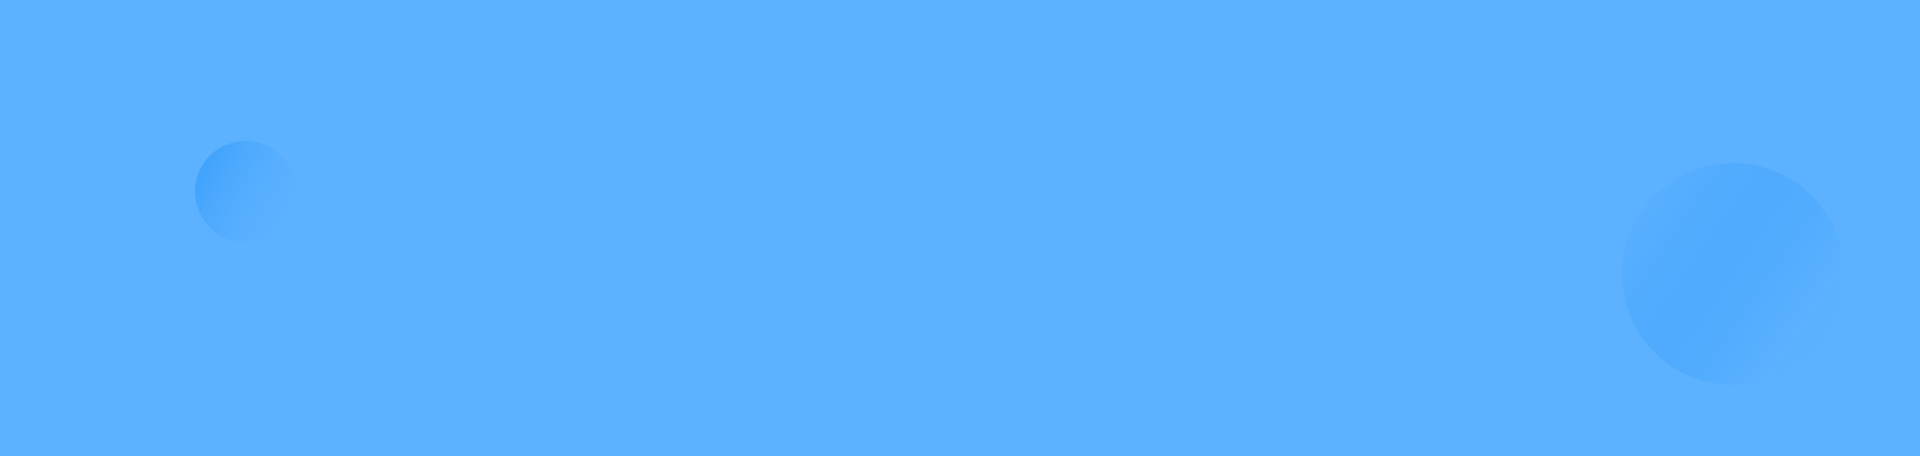
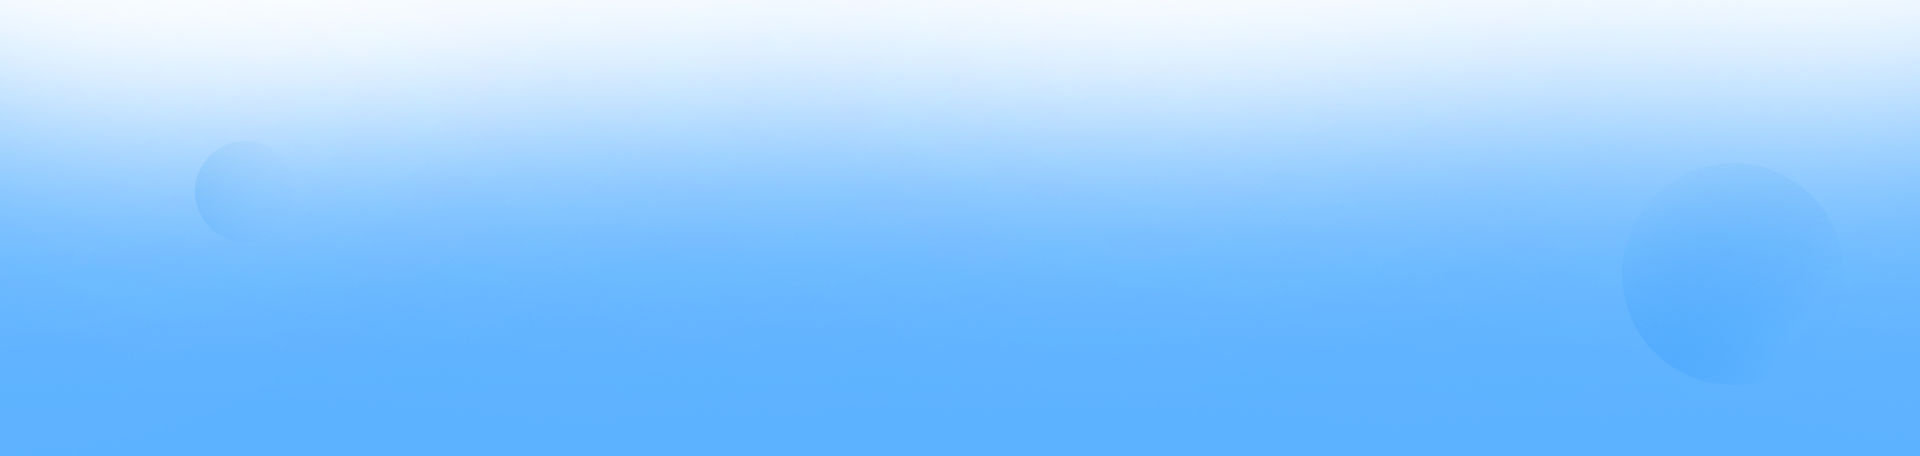
jjjkk

diff --git a/login.html b/login.html
@@ -1,0 +1,296 @@
+<!doctype html>
+<html class="no-js" lang="zxx">
+
+<head>
+    <meta charset="utf-8">
+    <meta http-equiv="x-ua-compatible" content="ie=edge">
+    <title>Genius Brasil</title>
+    <meta name="description" content="">
+    <meta name="viewport" content="width=device-width, initial-scale=1">
+	<link rel="sortcut icon" href="favicon.ico" type="image/x-icon" />
+    <link rel="sortcut icon" href="img/flavicon.png" type="image/png" />
+
+    <!-- <link rel="manifest" href="site.webmanifest"> -->
+    <!-- Place favicon.ico in the root directory -->
+
+    <!-- CSS here -->
+    <link rel="stylesheet" href="css/bootstrap.min.css">
+    <link rel="stylesheet" href="css/owl.carousel.min.css">
+    <link rel="stylesheet" href="css/magnific-popup.css">
+    <link rel="stylesheet" href="css/font-awesome.min.css">
+    <link rel="stylesheet" href="css/themify-icons.css">
+    <link rel="stylesheet" href="css/nice-select.css">
+    <link rel="stylesheet" href="css/flaticon.css">
+    <link rel="stylesheet" href="css/gijgo.css">
+    <link rel="stylesheet" href="css/animate.min.css">
+    <link rel="stylesheet" href="css/slick.css">
+    <link rel="stylesheet" href="css/slicknav.css">
+    <link rel="stylesheet" href="css/style.css">
+    <link rel="stylesheet" href="css/lightbox.min.css">
+    <link rel="stylesheet" href="https://cdnjs.cloudflare.com/ajax/libs/normalize/3.0.2/normalize.css"/>
+    <link rel="stylesheet" href="//maxcdn.bootstrapcdn.com/font-awesome/4.3.0/css/font-awesome.min.css">
+    <link rel="stylesheet" href="css/styles.css">
+    <link rel='stylesheet' href='https://cdnjs.cloudflare.com/ajax/libs/twitter-bootstrap/4.1.1/css/bootstrap.css'>
+    <link rel="stylesheet" href="css/styletab.css">
+
+    <!-- <link rel="stylesheet" href="css/responsive.css"> -->
+</head>
+
+<body>
+    <script type='text/javascript' data-cfasync='false'>window.purechatApi = { l: [], t: [], on: function () { this.l.push(arguments); } }; (function () { var done = false; var script = document.createElement('script'); script.async = true; script.type = 'text/javascript'; script.src = 'https://app.purechat.com/VisitorWidget/WidgetScript'; document.getElementsByTagName('HEAD').item(0).appendChild(script); script.onreadystatechange = script.onload = function (e) { if (!done && (!this.readyState || this.readyState == 'loaded' || this.readyState == 'complete')) { var w = new PCWidget({c: '2d88989f-d4d8-4dd8-b32c-89577d56036c', f: true }); done = true; } }; })();</script>
+
+    <!--[if lte IE 9]>
+            <p class="browserupgrade">You are using an <strong>outdated</strong> browser. Please <a href="https://browsehappy.com/">upgrade your browser</a> to improve your experience and security.</p>
+        <![endif]-->
+
+    <!-- header-start -->
+    <header>
+        <div class="header-area ">
+            <div id="sticky-header" class="main-header-area">
+                <div class="container-fluid">
+                    <div class="row align-items-center">
+                        <div class="col-xl-3 col-lg-2">
+                            <div class="logo">
+                                <a href="index.html">
+                                    <img src="img/logo.png" alt="">
+                                </a>
+                            </div>
+                        </div>
+                        <div class="col-xl-6 col-lg-7">
+                            <div class="main-menu  d-none d-lg-block">
+                                <nav>
+                                    <ul id="navigation">
+                                        <li><a class="active" href="index.html">Início</a></li>
+                                        <li><a href="Pricing.html">Genius Web</a></li> 
+                                        <li><a href="features.html">Genius Nuvens</a></li>
+                                        <li><a href="ecommerce.html">E-commerce Genius</a></li>
+                                        <li><a href="#">A Empresa <i class="ti-angle-down"></i></a>
+                                            <ul class="submenu">
+                                                <li><a href="blog.html">Genius 22 anos</a></li>
+                                                <li><a href="employees.html">Nossa Equipe</a></li>
+                                                <li><a href="contact.html">Contato</a></li>
+                                            </ul>
+                                        </li>
+                                    </ul>
+                                </nav>
+                            </div>
+                        </div>   
+                        <div class="col-xl-3 col-lg-3 d-none d-lg-block">
+                            <div class="Appointment">
+                                <div class="book_btn d-none d-lg-block">
+                                    <a  href="contact.html">Entre em contato</a>
+                                </div>
+                            </div>
+                        </div>  
+                        <div class="col-12">
+                            <div class="mobile_menu d-block d-lg-none"></div>
+                        </div>
+                    </div>
+                </div>
+            </div>
+        </div>
+    </header>
+    <!-- header-end -->
+
+    <!-- bradcam_area  -->
+    <div class="bradcam_area bradcam_bg_4">
+        <div class="container">
+            <div class="row">
+                <div class="col-xl-12">
+                    <div class="bradcam_text">
+                        <h3>Serviços</h3>
+                    </div>
+                <br>
+                    <div class="slider_text">
+                    <p class="wow fadeInLeft" data-wow-duration="1s" data-wow-delay=".1s"><i class="fa fa-key"></i> Aqui você faz a oficialização de sua licença de uso; <br>
+                    <i class="fa fa-phone"></i> Solicite um contato com as áreas de atendimento;            
+                    <i class= "fa fa-barcode"></i> Solicite a segunda via do passaporte<br>
+                    <i class="fa fa-window-close-o"></i> Cancelamento de series.<br>
+                    <i class="fa fa-window-close-o"></i> Cancelamento de series.</p>
+                    </div>
+     
+                </div>
+            </div>
+        </div>
+    </div>
+
+    <!-- Tab panes -->
+        <div class="login-page">
+            <div class="form">
+                <p>Login Usuário</p>
+              <form class="register-form">
+                <input type="text" placeholder="CPF"/>
+                <input type="password" placeholder="Passaporte"/>
+                <button>Acessar Serviços</button>
+                <p class="message"> <a href="#">Acesse com CNPJ</a></p>
+              </form>
+              <form class="login-form">
+                <input type="text" placeholder="CNPJ"/>
+                <input type="password" placeholder="Passaporte"/>
+                <button>Acessar Serviços</button>
+                <p class="message">Sem CNPJ? <a href="#">Acesse com CPF</a></p>
+              </form>
+            </div>
+          </div>
+    <div class="apply_loan overlay">
+        <div class="container">
+            <div class="row align-items-center">
+                <div class="col-lg-8 col-md-7">
+                    <div class="loan_text wow fadeInLeft" data-wow-duration="1s" data-wow-delay=".3s">
+                        <h3>O melhor para sua empresa. </h3>
+                    </div>
+                </div>
+                <div class="col-lg-4 col-md-5">
+                    <div class="loan_btn wow fadeInUp" data-wow-duration="1.2s" data-wow-delay=".4s">
+                        <a class="boxed-btn3" href="">Entre em Contato</a>
+                    </div>
+                </div>
+            </div>
+        </div>
+    </div>
+    <!-- productivity_area  -->
+
+    <!-- footer start -->
+    <footer class="footer">
+        <div class="footer_top">
+            <div class="container">
+                <div class="row">
+                    <div class="col-xl-4 col-md-6 col-lg-3">
+                        <div class="footer_widget wow fadeInUp" data-wow-duration="1s" data-wow-delay=".3s">
+                            <div class="footer_logo">
+                                <a href="#">
+                                    <img src="img/logooficial.png" alt="">
+                                </a>
+                            </div>
+                            <p>
+                                comercial@geniusnt.com<br>
+                                +55 (71) 98102-3012<br>
+                                Salvador, Bahia.<br>
+                                Envie-nos suas duvidas a qualquer momento!
+                            </p>
+                            <div class="socail_links">
+                                <ul>
+                                    <li>
+                                        <a href="#">
+                                            <i class="ti-facebook"></i>
+                                        </a>
+                                    </li>
+                                    <li>
+                                        <a href="#">
+                                            <i class="fa fa-whatsapp"></i>
+                                        </a>
+                                    </li>
+                                    <li>
+                                        <a href="#">
+                                            <i class="fa fa-twitter"></i>
+                                        </a>
+                                    </li>
+                                    <li>
+                                        <a href="https://www.instagram.com/geniussistemasbr/">
+                                            <i class="fa fa-instagram"></i>
+                                        </a>
+                                    </li>
+                                    <li>
+                                        <a href="#">
+                                            <i class="fa fa-skype"></i>
+                                        </a>
+                                    </li>
+                                </ul>
+                            </div>
+    
+                        </div>
+                    </div>
+                    <div class="col-xl-2 col-md-6 col-lg-3">
+                        <div class="footer_widget wow fadeInUp" data-wow-duration="1.1s" data-wow-delay=".4s">
+                            <h3 class="footer_title">
+                                Serviços 
+                            </h3>
+                            <ul>
+                                <li><a href="#">Suporte </a></li>
+                                <li><a href="#">Planos</a></li>
+                                <li><a href="contact.html">Contate a Genius</a></li>
+                                <li><a href="#">Parcerias </a></li>
+                            </ul>
+    
+                        </div>
+                    </div>
+                    <div class="col-xl-2 col-md-6 col-lg-2">
+                        <div class="footer_widget wow fadeInUp" data-wow-duration="1.2s" data-wow-delay=".5s">
+                            <h3 class="footer_title">
+                                Links Úteis 
+                            </h3>
+                            <ul>
+                                <li><a href="blog.html">Empresa</a></li>
+                                <li><a href="#">Outros Produtos</a></li>
+                                <li><a href="#">Blog</a></li>
+                                <li><a href="#">Outros</a></li>
+                            </ul>
+                        </div>
+                    </div>
+                    <div class="col-xl-4 col-md-6 col-lg-4">
+                        <div class="footer_widget wow fadeInUp" data-wow-duration="1.3s" data-wow-delay=".6s">
+                            <h3 class="footer_title">
+                                Saiba mais!
+                            </h3>
+                            <form action="#" class="newsletter_form">
+                                <input type="text" placeholder="Digite seu E-mail">
+                                <button type="submit">Enviar</button>
+                            </form>
+                            <p class="newsletter_text">Enviaremos mais informações sobre nossos produtos, respeitando acima de tudo a sua privacidade :)</p>
+                        </div>
+                    </div>
+                </div>
+            </div>
+        </div>
+     <div class="copy-right_text">
+                    <div class="container">
+                        <div class="footer_border"></div>
+                        <div class="row">
+                            <div class="col-xl-12">
+                                <p class="copy_right text-center">
+                                    Copyright &copy;
+                                    <script>document.write(new Date().getFullYear());</script> todos os direitos reservados | Este site foi feito <i class="fa fa-registered" aria-hidden="true"></i> por <a
+                                        href="#" target="_blank">Genius</a>
+                                </p>
+                            </div>
+                        </div>
+                    </div>
+                </div>
+    </footer>
+    <!--/ footer end  -->
+
+    <!-- JS here -->
+    <script src="js/vendor/modernizr-3.5.0.min.js"></script>
+    <script src="js/vendor/jquery-1.12.4.min.js"></script>
+    <script src="js/popper.min.js"></script>
+    <script src="js/bootstrap.min.js"></script>
+    <script src="js/owl.carousel.min.js"></script>
+    <script src="js/isotope.pkgd.min.js"></script>
+    <script src="js/ajax-form.js"></script>
+    <script src="js/waypoints.min.js"></script>
+    <script src="js/jquery.counterup.min.js"></script>
+    <script src="js/imagesloaded.pkgd.min.js"></script>
+    <script src="js/scrollIt.js"></script>
+    <script src="js/jquery.scrollUp.min.js"></script>
+    <script src="js/wow.min.js"></script>
+    <script src="js/nice-select.min.js"></script>
+    <script src="js/jquery.slicknav.min.js"></script>
+    <script src="js/jquery.magnific-popup.min.js"></script>
+    <script src="js/plugins.js"></script>
+    <script src="js/gijgo.min.js"></script>
+    <script src="js/lightbox-plus-jquery.min.js"></script>
+   
+    <script src="js/contact.js"></script>
+    <script src="js/jquery.ajaxchimp.min.js"></script>
+    <script src="js/jquery.form.js"></script>
+    <script src="js/jquery.validate.min.js"></script>
+    <script src="js/mail-script.js"></script>
+    <script src="js/main.js"></script>
+    <script src='https://cdnjs.cloudflare.com/ajax/libs/jquery/3.1.1/jquery.min.js'></script>
+    <script src='https://cdnjs.cloudflare.com/ajax/libs/twitter-bootstrap/4.1.1/js/bootstrap.min.js'></script><script  src="js/scripttab.js"></script>
+    <script src='https://cdnjs.cloudflare.com/ajax/libs/jquery/2.1.3/jquery.min.js'></script>
+    <script  src="js/scripts.js"></script>
+
+</body>
+
+</html>

diff --git a/css/styles.css b/css/styles.css
@@ -1,15 +1,15 @@
 @import url(https://fonts.googleapis.com/css?family=Roboto:300);
 
 .login-page {
-  width: 500px;
-  padding: 8% 0 0;
+  width: ¨600px;
+  padding: 3% 0 0;
   margin: auto;
 }
 .form {
   position: relative;
   z-index: 1;
   background: #FFFFFF;
-  max-width: 500px;
+  max-width: 600px;
   margin: 0 auto 100px;
   padding: 45px;
   text-align: center;
@@ -89,6 +89,11 @@
   color: #EF3B3A;
 }
 body {
+  background: #5DB2FF; /* fallback for old browsers */
+  background: -webkit-linear-gradient(right, #5DB2FF, #5DB2FF);
+  background: -moz-linear-gradient(right, #5DB2FF, #5DB2FF);
+  background: -o-linear-gradient(right, #5DB2FF, #5DB2FF);
+  background: linear-gradient(to left, #5DB2FF, #5DB2FF);
   font-family: "Roboto", sans-serif;
   -webkit-font-smoothing: antialiased;
   -moz-osx-font-smoothing: grayscale;      

diff --git a/index.html b/index.html
@@ -62,7 +62,7 @@
                                                 <li><a href="https://www.vanillasystem.com.br">Vanilla System</a></li>
                                             </ul>
                                         </li>
-                                        <li><a href="features.html">Serviços</a></li> 
+                                        <li><a href="login.html">Serviços</a></li> 
                                         <li><a href="#">A Empresa<i class="ti-angle-down"></i></a>
                                             <ul class="submenu">
                                                 <li><a href="blog.html">Genius 22 anos</a></li>

diff --git a/css/style.css b/css/style.css
@@ -3021,15 +3021,15 @@ h3 {
 }
 
 /* line 10, ../../Arafath/CL/CL October/214. App Landing Page/HTML/scss/_bradcam.scss */
-.breadcam_bg_4 {
-  background-image: url(../img/banner/bradcam_4.png);
+.bradcam_bg_4 {
+  background-image: url(../img/banner/product.png);
 }
 
 /* line 13, ../../Arafath/CL/CL October/214. App Landing Page/HTML/scss/_bradcam.scss */
 .bradcam_area {
   background-size: cover;
   background-position: bottom;
-  padding: 190px 0;
+  padding: 150px 0;
   background-repeat: no-repeat;
   position: relative;
   z-index: 0;
